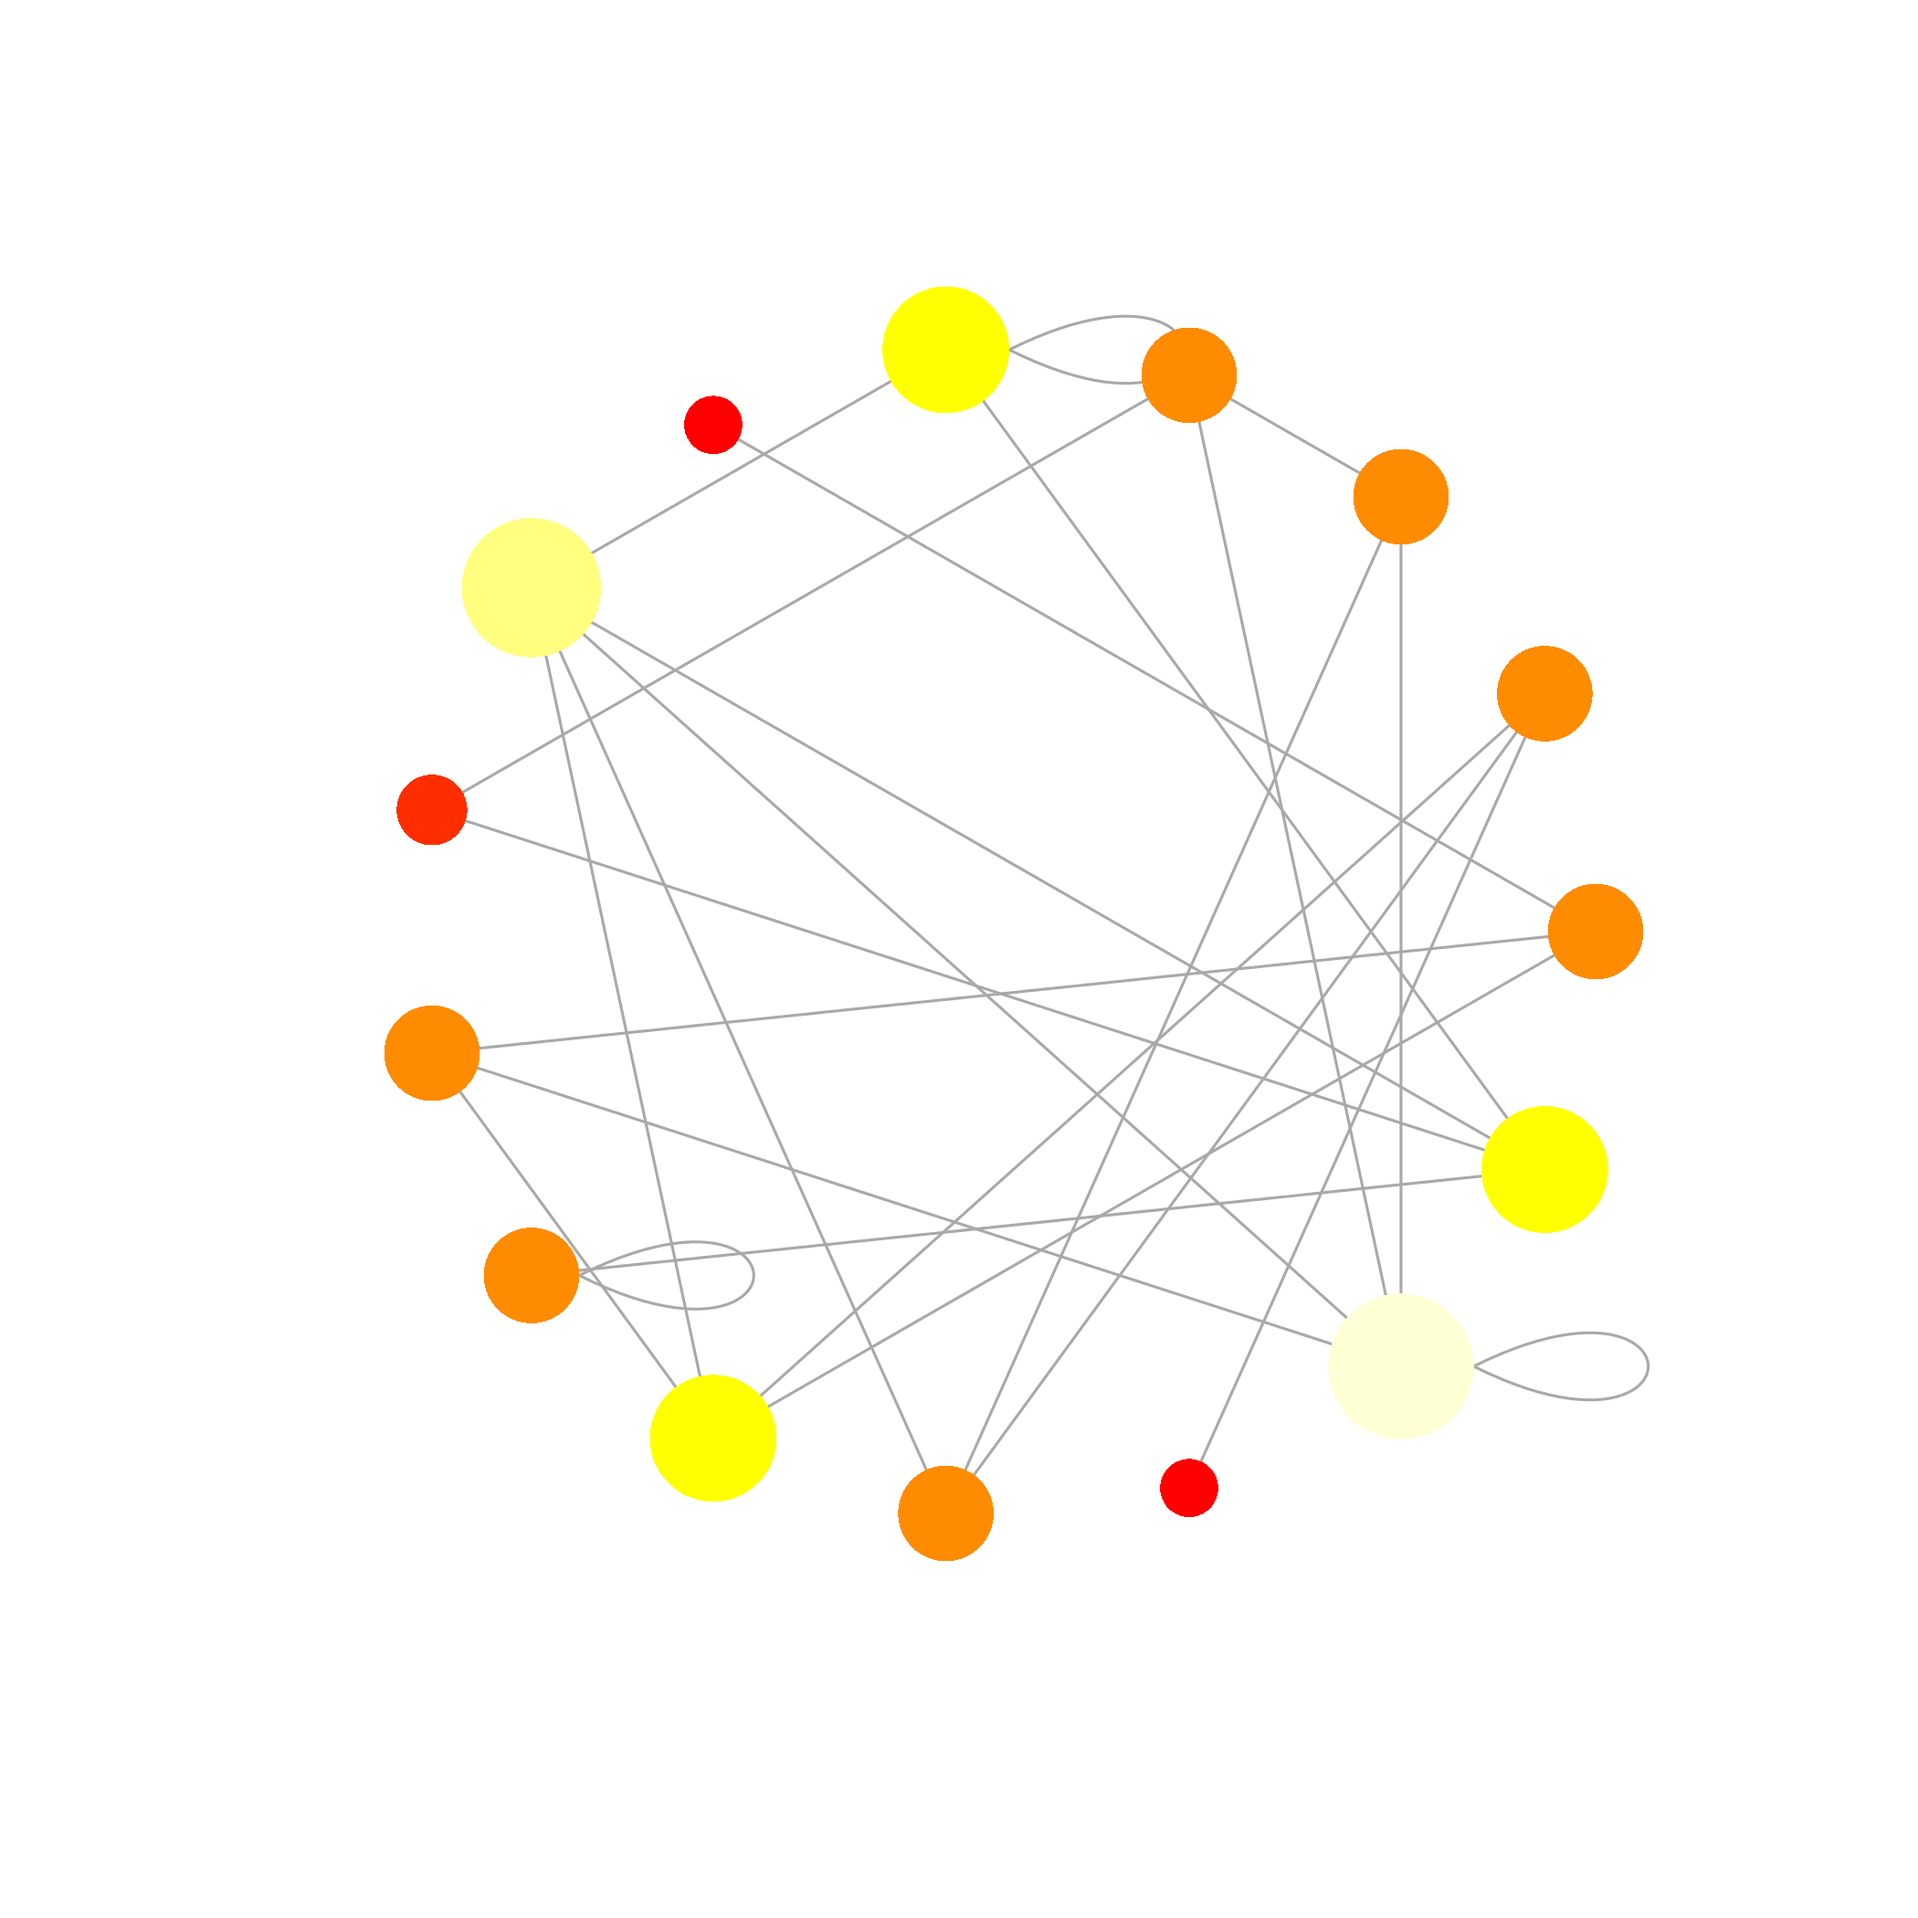
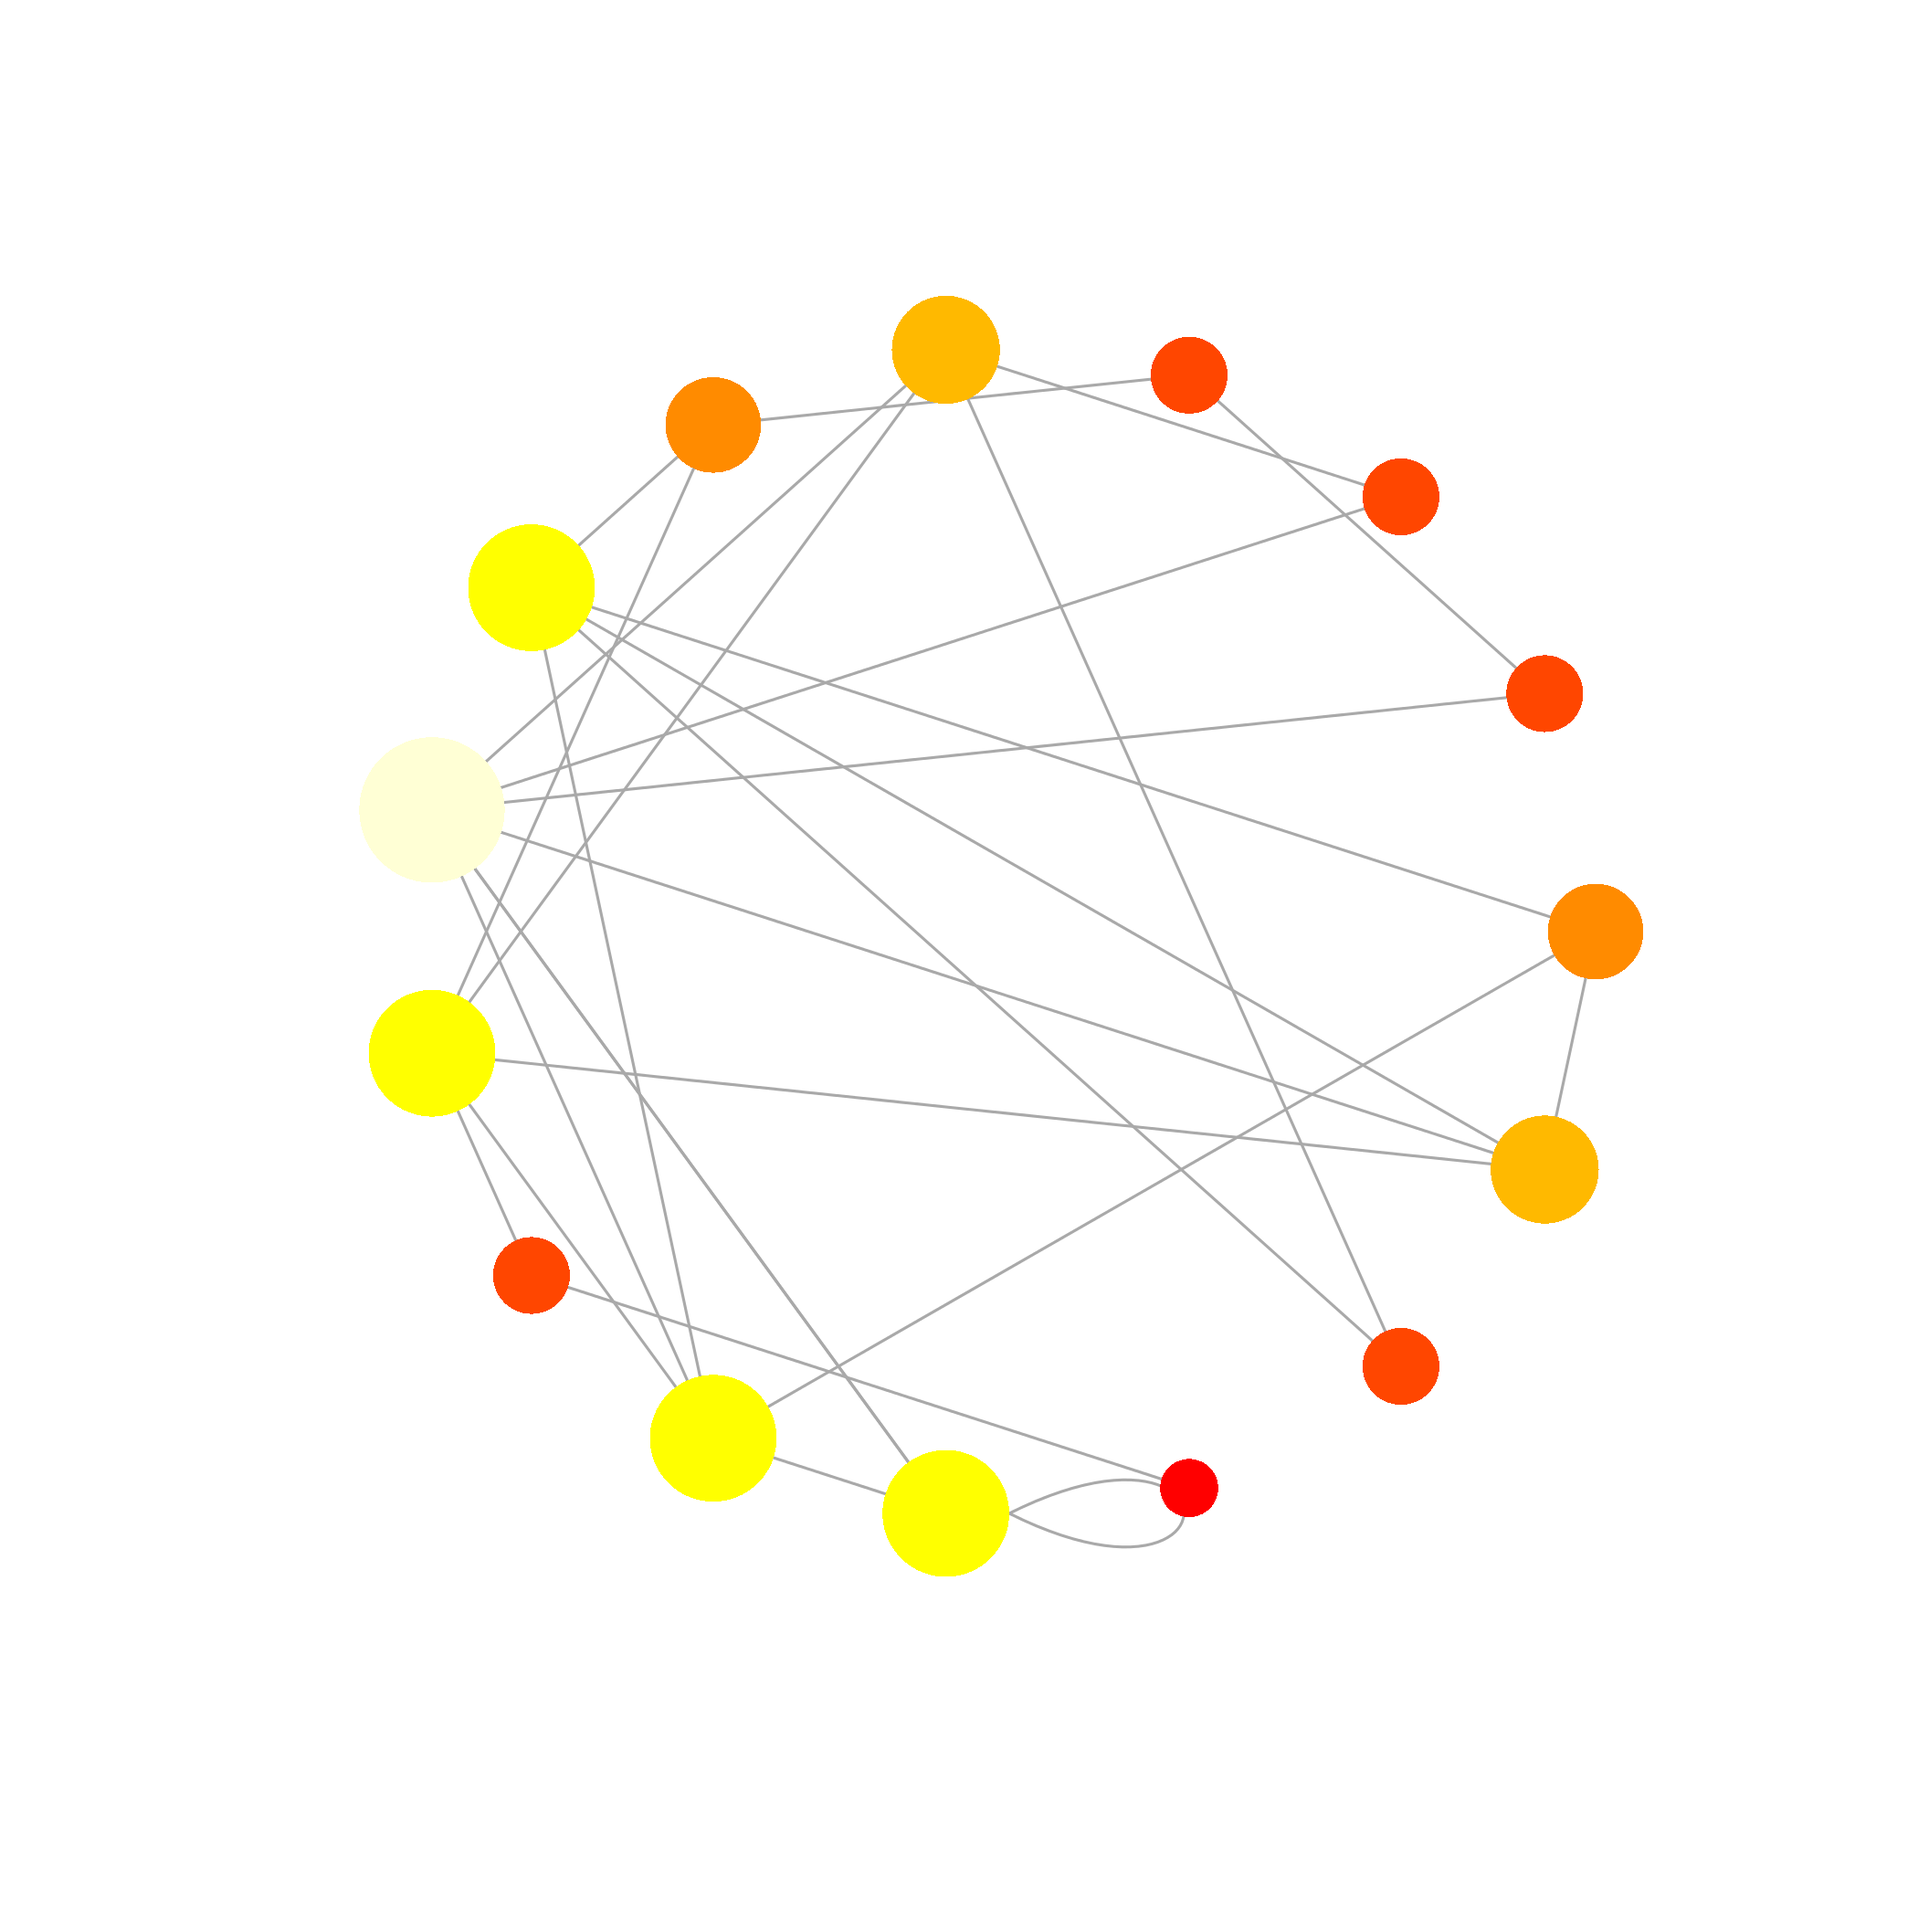
Update the slides

diff --git a/cours5/index.html b/cours5/index.html
@@ -946,7 +946,7 @@ L[runif(S*S) &lt; C] = 1
 sum(L)
 </code></pre>
 
-<pre><code>## [1] 24
+<pre><code>## [1] 26
 </code></pre>
 
 <pre><code class="r">g &lt;- graph.adjacency(L)
@@ -1122,7 +1122,7 @@ plot(g, vertex.label=NA, edge.arrow.mode = 0,
 modularity(wtc)
 </code></pre>
 
-<pre><code>## [1] 0.3359375
+<pre><code>## [1] 0.2936391
 </code></pre>
 
   </article>
@@ -1140,35 +1140,35 @@ modularity(wtc)
 </code></pre>
 
 <pre><code>##       [,1] [,2] [,3] [,4] [,5] [,6] [,7] [,8] [,9] [,10] [,11] [,12] [,13]
-##  [1,]    0    2    3    3    3    1    2    4    1     4     1     3     3
-##  [2,]    2    0    2    3    3    3    2    4    2     4     1     1     1
-##  [3,]    3    2    0    1    3    4    2    2    2     4     3     1     3
-##  [4,]    3    3    1    0    3    4    2    1    2     3     3     2     4
-##  [5,]    3    3    3    3    0    4    1    2    3     2     2     2     4
-##  [6,]    1    3    4    4    4    0    3    5    2     5     2     4     4
-##  [7,]    2    2    2    2    1    3    0    2    2     2     1     1     3
-##  [8,]    4    4    2    1    2    5    2    0    3     2     3     3     5
-##  [9,]    1    2    2    2    3    2    2    3    0     4     1     3     3
-## [10,]    4    4    4    3    2    5    2    2    4     0     3     3     5
-## [11,]    1    1    3    3    2    2    1    3    1     3     0     2     2
-## [12,]    3    1    1    2    2    4    1    3    3     3     2     0     2
-## [13,]    3    1    3    4    4    4    3    5    3     5     2     2     0
-## [14,]    2    3    1    1    2    3    1    2    1     3     2     2     4
-## [15,]    3    3    3    2    1    4    1    1    3     1     2     2     4
+##  [1,]    0    3    3    3    3    2    1    2    2     3     1     2     4
+##  [2,]    3    0    2    1    2    2    3    1    3     4     2     2     5
+##  [3,]    3    2    0    3    1    3    3    1    2     3     2     2     4
+##  [4,]    3    1    3    0    3    1    2    2    2     3     3     3     4
+##  [5,]    3    2    1    3    0    2    2    1    1     2     2     2     3
+##  [6,]    2    2    3    1    2    0    1    3    1     2     2     3     3
+##  [7,]    1    3    3    2    2    1    0    2    2     3     1     2     4
+##  [8,]    2    1    1    2    1    3    2    0    2     3     1     1     4
+##  [9,]    2    3    2    2    1    1    2    2    0     1     1     2     2
+## [10,]    3    4    3    3    2    2    3    3    1     0     2     3     1
+## [11,]    1    2    2    3    2    2    1    1    1     2     0     1     3
+## [12,]    2    2    2    3    2    3    2    1    2     3     1     0     4
+## [13,]    4    5    4    4    3    3    4    4    2     1     3     4     0
+## [14,]    2    3    2    3    1    2    1    2    2     3     2     3     4
+## [15,]    1    2    2    3    2    2    1    1    1     2     2     2     3
 ##       [,14] [,15]
-##  [1,]     2     3
-##  [2,]     3     3
-##  [3,]     1     3
-##  [4,]     1     2
-##  [5,]     2     1
-##  [6,]     3     4
+##  [1,]     2     1
+##  [2,]     3     2
+##  [3,]     2     2
+##  [4,]     3     3
+##  [5,]     1     2
+##  [6,]     2     2
 ##  [7,]     1     1
 ##  [8,]     2     1
-##  [9,]     1     3
-## [10,]     3     1
+##  [9,]     2     1
+## [10,]     3     2
 ## [11,]     2     2
-## [12,]     2     2
-## [13,]     4     4
+## [12,]     3     2
+## [13,]     4     3
 ## [14,]     0     2
 ## [15,]     2     0
 </code></pre>
@@ -1187,9 +1187,9 @@ modularity(wtc)
 <pre><code class="r">eigen_centrality(g)$vector
 </code></pre>
 
-<pre><code>##  [1] 0.35138884 0.34046996 0.57243706 0.52732937 0.57835660 0.09858484
-##  [7] 0.91568305 0.30713862 0.54888010 0.22127182 0.60500072 0.51302497
-## [13] 0.09552146 1.00000000 0.56741388
+<pre><code>##  [1] 0.46579233 0.26537206 0.35334123 0.13120140 0.50618755 0.29390009
+##  [7] 0.56959281 1.00000000 0.55201358 0.13704046 0.80895405 0.86092940
+## [13] 0.03214875 0.25237067 0.60698593
 </code></pre>
 
   </article>

diff --git a/cours6/index.html b/cours6/index.html
@@ -566,7 +566,7 @@ Transcript written on doc.log.
 
 \maketitle
 
-\tableofcontent
+\tableofcontents
 
 \section{Ma première section}
 
@@ -583,7 +583,7 @@ Transcript written on doc.log.
 
     </div>
     <div class='right' style='float:right;width:45%'>
-     <p>La simple déclaration de la balise <code>\tableofcontent</code> permet la création d&#39;une table des matières.</p>
+     <p>La simple déclaration de la balise <code>\tableofcontents</code> permet la création d&#39;une table des matières.</p>
 
     </div>
   </article>

diff --git a/cours5/index.md b/cours5/index.md
@@ -668,7 +668,7 @@ sum(L)
 ```
 
 ```
-## [1] 24
+## [1] 26
 ```
 
 ```r
@@ -810,7 +810,7 @@ modularity(wtc)
 ```
 
 ```
-## [1] 0.3359375
+## [1] 0.2936391
 ```
 
 ---
@@ -826,35 +826,35 @@ distances(g)
 
 ```
 ##       [,1] [,2] [,3] [,4] [,5] [,6] [,7] [,8] [,9] [,10] [,11] [,12] [,13]
-##  [1,]    0    2    3    3    3    1    2    4    1     4     1     3     3
-##  [2,]    2    0    2    3    3    3    2    4    2     4     1     1     1
-##  [3,]    3    2    0    1    3    4    2    2    2     4     3     1     3
-##  [4,]    3    3    1    0    3    4    2    1    2     3     3     2     4
-##  [5,]    3    3    3    3    0    4    1    2    3     2     2     2     4
-##  [6,]    1    3    4    4    4    0    3    5    2     5     2     4     4
-##  [7,]    2    2    2    2    1    3    0    2    2     2     1     1     3
-##  [8,]    4    4    2    1    2    5    2    0    3     2     3     3     5
-##  [9,]    1    2    2    2    3    2    2    3    0     4     1     3     3
-## [10,]    4    4    4    3    2    5    2    2    4     0     3     3     5
-## [11,]    1    1    3    3    2    2    1    3    1     3     0     2     2
-## [12,]    3    1    1    2    2    4    1    3    3     3     2     0     2
-## [13,]    3    1    3    4    4    4    3    5    3     5     2     2     0
-## [14,]    2    3    1    1    2    3    1    2    1     3     2     2     4
-## [15,]    3    3    3    2    1    4    1    1    3     1     2     2     4
+##  [1,]    0    3    3    3    3    2    1    2    2     3     1     2     4
+##  [2,]    3    0    2    1    2    2    3    1    3     4     2     2     5
+##  [3,]    3    2    0    3    1    3    3    1    2     3     2     2     4
+##  [4,]    3    1    3    0    3    1    2    2    2     3     3     3     4
+##  [5,]    3    2    1    3    0    2    2    1    1     2     2     2     3
+##  [6,]    2    2    3    1    2    0    1    3    1     2     2     3     3
+##  [7,]    1    3    3    2    2    1    0    2    2     3     1     2     4
+##  [8,]    2    1    1    2    1    3    2    0    2     3     1     1     4
+##  [9,]    2    3    2    2    1    1    2    2    0     1     1     2     2
+## [10,]    3    4    3    3    2    2    3    3    1     0     2     3     1
+## [11,]    1    2    2    3    2    2    1    1    1     2     0     1     3
+## [12,]    2    2    2    3    2    3    2    1    2     3     1     0     4
+## [13,]    4    5    4    4    3    3    4    4    2     1     3     4     0
+## [14,]    2    3    2    3    1    2    1    2    2     3     2     3     4
+## [15,]    1    2    2    3    2    2    1    1    1     2     2     2     3
 ##       [,14] [,15]
-##  [1,]     2     3
-##  [2,]     3     3
-##  [3,]     1     3
-##  [4,]     1     2
-##  [5,]     2     1
-##  [6,]     3     4
+##  [1,]     2     1
+##  [2,]     3     2
+##  [3,]     2     2
+##  [4,]     3     3
+##  [5,]     1     2
+##  [6,]     2     2
 ##  [7,]     1     1
 ##  [8,]     2     1
-##  [9,]     1     3
-## [10,]     3     1
+##  [9,]     2     1
+## [10,]     3     2
 ## [11,]     2     2
-## [12,]     2     2
-## [13,]     4     4
+## [12,]     3     2
+## [13,]     4     3
 ## [14,]     0     2
 ## [15,]     2     0
 ```
@@ -871,9 +871,9 @@ eigen_centrality(g)$vector
 ```
 
 ```
-##  [1] 0.35138884 0.34046996 0.57243706 0.52732937 0.57835660 0.09858484
-##  [7] 0.91568305 0.30713862 0.54888010 0.22127182 0.60500072 0.51302497
-## [13] 0.09552146 1.00000000 0.56741388
+##  [1] 0.46579233 0.26537206 0.35334123 0.13120140 0.50618755 0.29390009
+##  [7] 0.56959281 1.00000000 0.55201358 0.13704046 0.80895405 0.86092940
+## [13] 0.03214875 0.25237067 0.60698593
 ```
 
 --- .transition

diff --git a/cours6/index.md b/cours6/index.md
@@ -413,7 +413,7 @@ On écrit notre résumé entre dans l'environnement `abstract`.
 
 \maketitle
 
-\tableofcontent
+\tableofcontents
 
 \section{Ma première section}
 
@@ -430,7 +430,7 @@ On écrit notre résumé entre dans l'environnement `abstract`.
 
 *** =right
 
-La simple déclaration de la balise `\tableofcontent` permet la création d'une table des matières.
+La simple déclaration de la balise `\tableofcontents` permet la création d'une table des matières.
 
 ---
 
